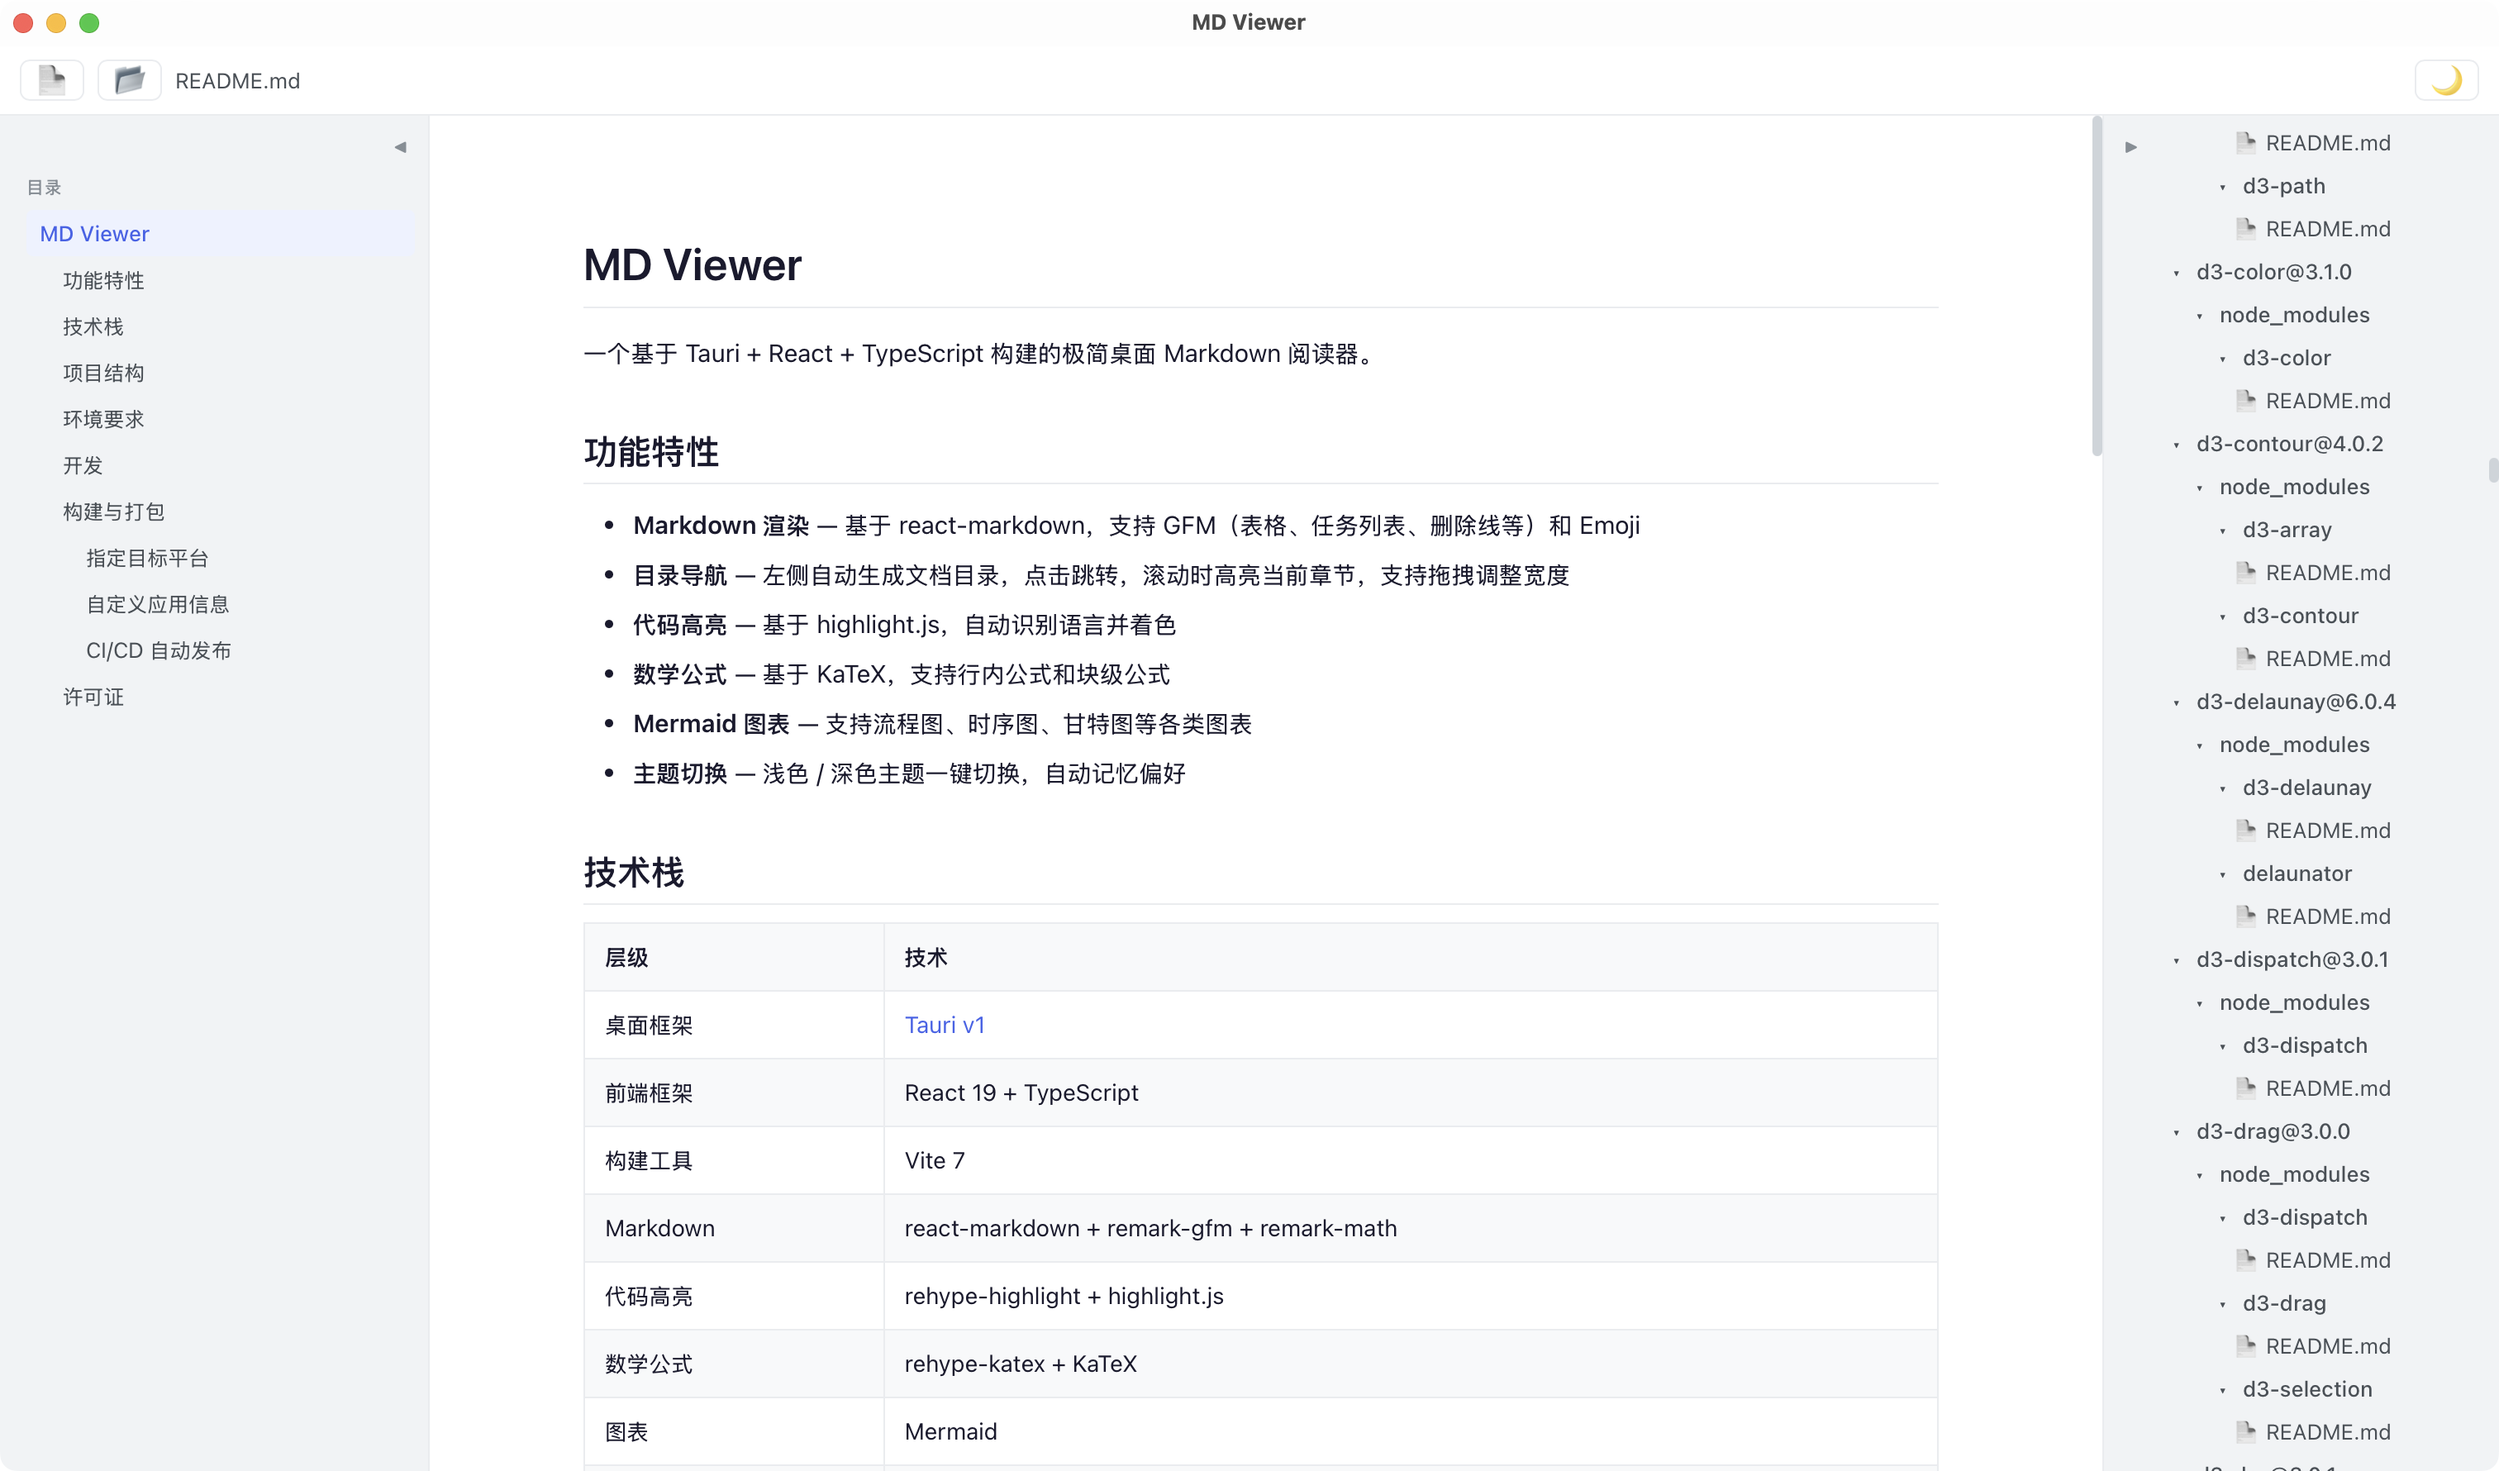
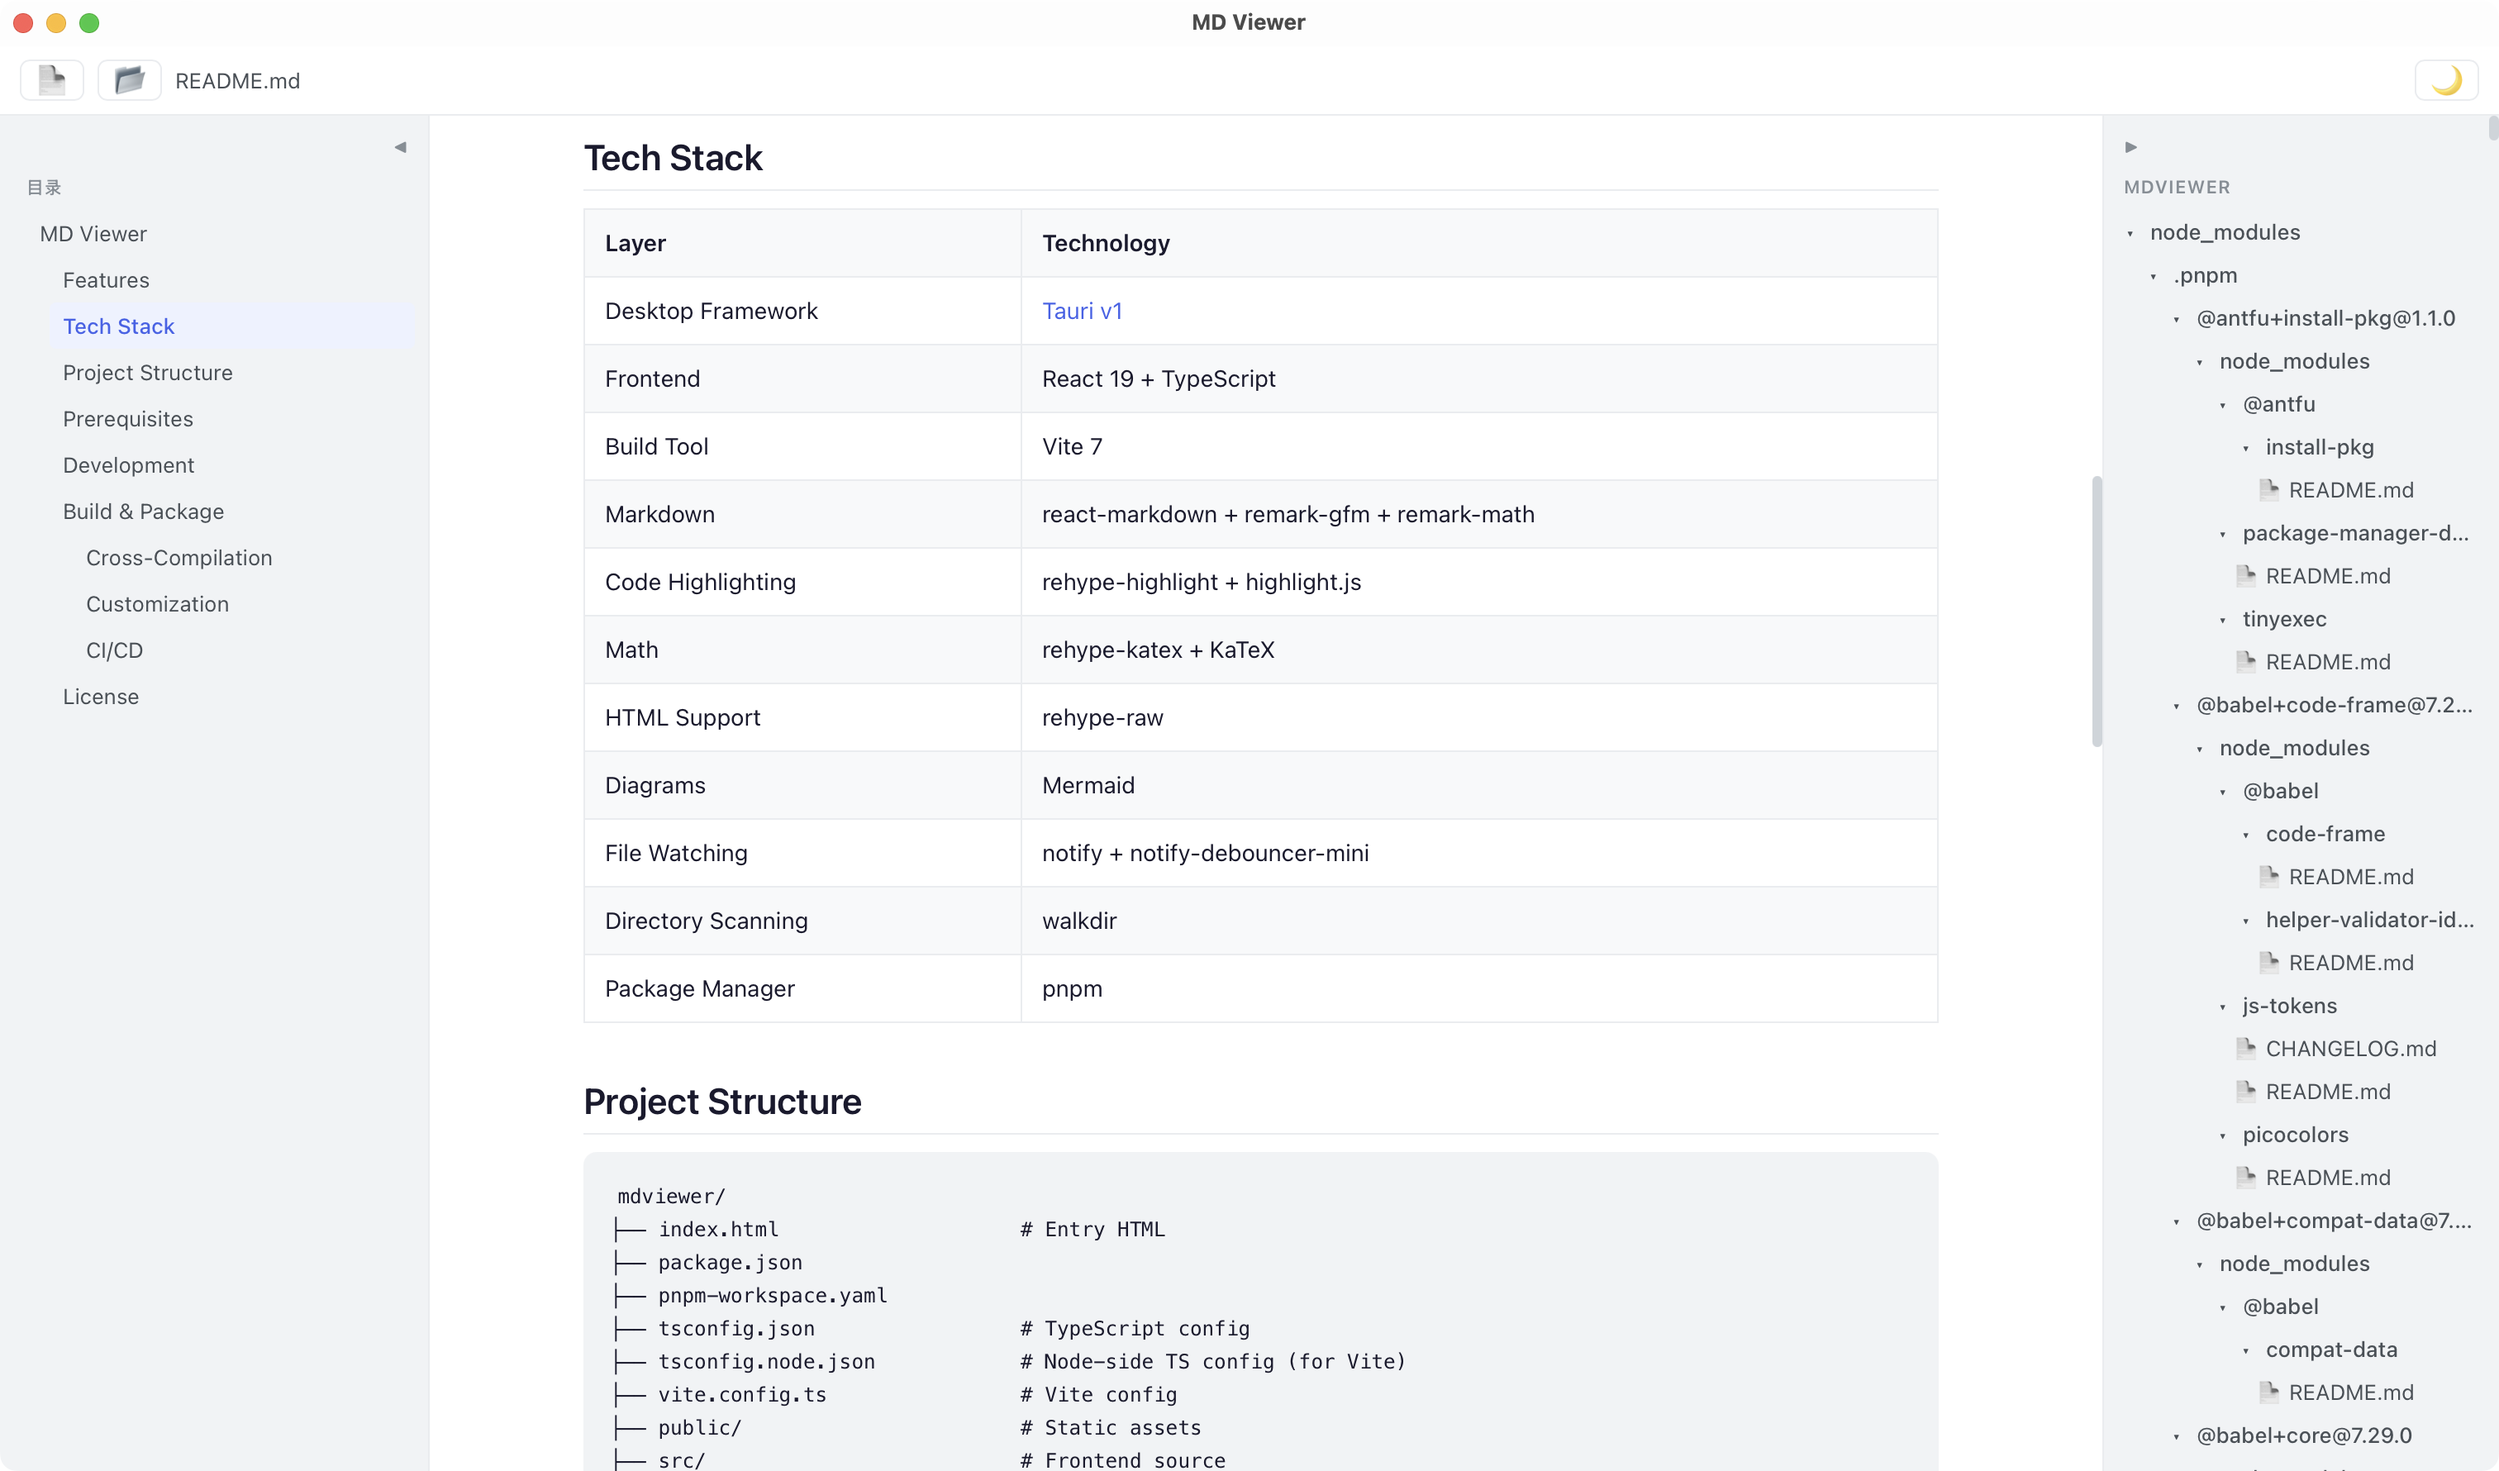
docs: rewrite README in English with updated features

diff --git a/README.md b/README.md
@@ -1,142 +1,144 @@
 # MD Viewer
 
-一个基于 Tauri + React + TypeScript 构建的极简桌面 Markdown 阅读器。
+A minimal desktop Markdown reader built with Tauri + React + TypeScript.
 
 <p align="center">
-  <img src="./screenshots/main.png" alt="界面预览" width="720" />
+  <img src="./screenshots/main.png" alt="Screenshot" width="720" />
 </p>
 
-## 功能特性
+## Features
 
-- **Markdown 渲染** — 基于 react-markdown，支持 GFM（表格、任务列表、删除线等）和 Emoji
-- **目录导航** — 左侧自动生成文档目录，点击跳转，滚动时高亮当前章节，支持拖拽调整宽度
-- **文件浏览器** — 右侧文件资源管理器，递归展示目录下所有 Markdown 文件，支持打开文件或文件夹，目录变更自动刷新
-- **代码高亮** — 基于 highlight.js，自动识别语言并着色
-- **数学公式** — 基于 KaTeX，支持行内公式和块级公式
-- **Mermaid 图表** — 支持流程图、时序图、甘特图等各类图表
-- **主题切换** — 浅色 / 深色主题一键切换，自动记忆偏好
-- **文件热更新** — 外部编辑器修改文件后自动刷新预览，无需手动重新打开
-- **Markdown 链接跳转** — 点击文档内的相对路径 md 链接直接在应用内打开，外部链接跳转系统浏览器
+- **Markdown Rendering** — Powered by react-markdown with GFM support (tables, task lists, strikethrough, etc.) and Emoji
+- **Table of Contents** — Auto-generated TOC sidebar on the left with click-to-jump, scroll-aware highlighting, and drag-to-resize
+- **File Explorer** — Right-side file tree that recursively lists all Markdown files in a directory, with auto-refresh on filesystem changes
+- **Code Highlighting** — Syntax highlighting via highlight.js with automatic language detection
+- **Math Formulas** — KaTeX-based rendering for both inline and block math expressions
+- **Mermaid Diagrams** — Supports flowcharts, sequence diagrams, Gantt charts, and more
+- **Theme Switching** — Light / dark theme toggle with automatic preference persistence
+- **Live Reload** — Automatically refreshes preview when the file is modified externally
+- **Smart Link Navigation** — Relative `.md` links open within the app; external URLs open in the system browser
+- **Local Image Support** — Renders relative-path images embedded in Markdown via Tauri asset protocol
 
-## 技术栈
+## Tech Stack
 
-| 层级 | 技术 |
-|------|------|
-| 桌面框架 | [Tauri v1](https://v1.tauri.app/) |
-| 前端框架 | React 19 + TypeScript |
-| 构建工具 | Vite 7 |
+| Layer | Technology |
+|-------|------------|
+| Desktop Framework | [Tauri v1](https://v1.tauri.app/) |
+| Frontend | React 19 + TypeScript |
+| Build Tool | Vite 7 |
 | Markdown | react-markdown + remark-gfm + remark-math |
-| 代码高亮 | rehype-highlight + highlight.js |
-| 数学公式 | rehype-katex + KaTeX |
-| 图表 | Mermaid |
-| 文件监听 | notify + notify-debouncer-mini |
-| 目录扫描 | walkdir |
-| 包管理 | pnpm |
+| Code Highlighting | rehype-highlight + highlight.js |
+| Math | rehype-katex + KaTeX |
+| HTML Support | rehype-raw |
+| Diagrams | Mermaid |
+| File Watching | notify + notify-debouncer-mini |
+| Directory Scanning | walkdir |
+| Package Manager | pnpm |
 
-## 项目结构
+## Project Structure
 
 ```
 mdviewer/
-├── index.html                  # 入口 HTML
+├── index.html                    # Entry HTML
 ├── package.json
 ├── pnpm-workspace.yaml
-├── tsconfig.json               # TypeScript 配置
-├── tsconfig.node.json          # Node 端 TS 配置（Vite 用）
-├── vite.config.ts              # Vite 配置
-├── public/                     # 静态资源
-├── src/                        # 前端源码
-│   ├── main.tsx                # 应用入口，引入全局样式
-│   ├── App.tsx                 # 主应用组件，文件打开 & 布局编排
+├── tsconfig.json                 # TypeScript config
+├── tsconfig.node.json            # Node-side TS config (for Vite)
+├── vite.config.ts                # Vite config
+├── public/                       # Static assets
+├── src/                          # Frontend source
+│   ├── main.tsx                  # App entry, global style imports
+│   ├── App.tsx                   # Root component, file handling & layout
 │   ├── components/
-│   │   ├── FileExplorer.tsx      # 右侧文件资源管理器（树形目录）
-│   │   ├── MarkdownRenderer.tsx  # Markdown 渲染核心（集成所有插件）
-│   │   ├── Mermaid.tsx           # Mermaid 图表渲染组件
-│   │   ├── Sidebar.tsx           # 左侧目录导航（TOC + 拖拽调宽）
-│   │   └── Toolbar.tsx           # 顶部工具栏（打开文件/文件夹 & 主题切换）
+│   │   ├── FileExplorer.tsx      # Right-side file tree browser
+│   │   ├── MarkdownRenderer.tsx  # Markdown rendering core (all plugins)
+│   │   ├── Mermaid.tsx           # Mermaid diagram component
+│   │   ├── Sidebar.tsx           # Left-side TOC navigation (drag-to-resize)
+│   │   └── Toolbar.tsx           # Top toolbar (open file/folder & theme toggle)
 │   ├── hooks/
-│   │   └── useTheme.ts          # 浅色/深色主题管理
+│   │   └── useTheme.ts          # Light/dark theme management
 │   └── styles/
-│       └── index.css            # 全局样式 & CSS 变量主题
-└── src-tauri/                  # Tauri / Rust 后端
-    ├── Cargo.toml              # Rust 依赖配置
-    ├── tauri.conf.json         # Tauri 应用配置（窗口、权限等）
-    ├── build.rs                # Tauri 构建脚本
+│       └── index.css            # Global styles & CSS variable themes
+└── src-tauri/                   # Tauri / Rust backend
+    ├── Cargo.toml               # Rust dependencies
+    ├── tauri.conf.json          # Tauri app config (window, permissions, etc.)
+    ├── build.rs                 # Tauri build script
     ├── src/
-    │   └── main.rs             # Rust 入口（文件/目录监听、目录扫描）
-    └── icons/                  # 应用图标资源
+    │   └── main.rs              # Rust entry (file/dir watching, directory scan)
+    └── icons/                   # App icon assets
 ```
 
-## 环境要求
+## Prerequisites
 
 - [Node.js](https://nodejs.org/) >= 18
 - [pnpm](https://pnpm.io/) >= 8
 - [Rust](https://www.rust-lang.org/tools/install) >= 1.70
-- Tauri v1 系统依赖（参考 [Tauri 前置条件](https://v1.tauri.app/v1/guides/getting-started/prerequisites)）
+- Tauri v1 system dependencies (see [Tauri Prerequisites](https://v1.tauri.app/v1/guides/getting-started/prerequisites))
 
-## 开发
+## Development
 
 ```bash
-# 安装前端依赖
+# Install frontend dependencies
 pnpm install
 
-# 启动开发模式（同时启动 Vite dev server 和 Tauri 窗口）
+# Start development mode (launches Vite dev server + Tauri window)
 pnpm tauri dev
 ```
 
-开发模式下，前端代码修改会通过 Vite HMR 热更新，Rust 代码修改会自动重新编译。
+In development mode, frontend changes are hot-reloaded via Vite HMR, and Rust code changes trigger automatic recompilation.
 
-如果只需要调试前端（不启动 Tauri 窗口）：
+To debug the frontend only (without the Tauri window):
 
 ```bash
 pnpm dev
-# 浏览器访问 http://localhost:1420
+# Open http://localhost:1420 in your browser
 ```
 
-## 构建与打包
+## Build & Package
 
 ```bash
-# 构建生产版本（前端 + Rust 编译 + 打包安装程序）
+# Production build (frontend + Rust compilation + installer packaging)
 pnpm tauri build
 ```
 
-构建产物位于 `src-tauri/target/release/bundle/`，根据操作系统不同会生成：
+Build artifacts are located at `src-tauri/target/release/bundle/`:
 
-| 平台 | 产物 | 路径 |
-|------|------|------|
-| macOS | `.app` + `.dmg` | `bundle/macos/` 和 `bundle/dmg/` |
-| Windows | `.msi` + `.exe` | `bundle/msi/` 和 `bundle/nsis/` |
-| Linux | `.deb` + `.AppImage` | `bundle/deb/` 和 `bundle/appimage/` |
+| Platform | Output | Path |
+|----------|--------|------|
+| macOS | `.app` + `.dmg` | `bundle/macos/` and `bundle/dmg/` |
+| Windows | `.msi` + `.exe` | `bundle/msi/` and `bundle/nsis/` |
+| Linux | `.deb` + `.AppImage` | `bundle/deb/` and `bundle/appimage/` |
 
-### 指定目标平台
+### Cross-Compilation
 
-Tauri 默认为当前系统构建。如需交叉编译，需配置对应的 Rust target：
+Tauri builds for the current platform by default. For cross-compilation, add the corresponding Rust target:
 
 ```bash
-# 示例：macOS 上构建 Apple Silicon 版本
+# Example: Build for Apple Silicon on macOS
 rustup target add aarch64-apple-darwin
 pnpm tauri build --target aarch64-apple-darwin
 
-# 示例：macOS 上构建 Intel 版本
+# Example: Build for Intel on macOS
 rustup target add x86_64-apple-darwin
 pnpm tauri build --target x86_64-apple-darwin
 
-# 同时构建 Universal Binary（Intel + Apple Silicon）
+# Build Universal Binary (Intel + Apple Silicon)
 pnpm tauri build --target universal-apple-darwin
 ```
 
-### 自定义应用信息
+### Customization
 
-编辑 `src-tauri/tauri.conf.json` 中的以下字段：
+Edit the following fields in `src-tauri/tauri.conf.json`:
 
-- `package.productName` — 应用名称
-- `package.version` — 版本号
-- `tauri.bundle.identifier` — 应用唯一标识符（如 `com.yourname.mdviewer`）
-- `tauri.bundle.icon` — 应用图标
+- `package.productName` — Application name
+- `package.version` — Version number
+- `tauri.bundle.identifier` — Unique app identifier (e.g. `com.yourname.mdviewer`)
+- `tauri.bundle.icon` — App icons
 
-### CI/CD 自动发布
+### CI/CD
 
-可参考 Tauri 官方的 [GitHub Actions 发布指南](https://v1.tauri.app/v1/guides/building/cross-platform) 配置多平台自动构建与发布。
+Refer to the official [Tauri GitHub Actions guide](https://v1.tauri.app/v1/guides/building/cross-platform) for multi-platform automated builds and releases.
 
-## 许可证
+## License
 
 [Apache License 2.0](LICENSE)
